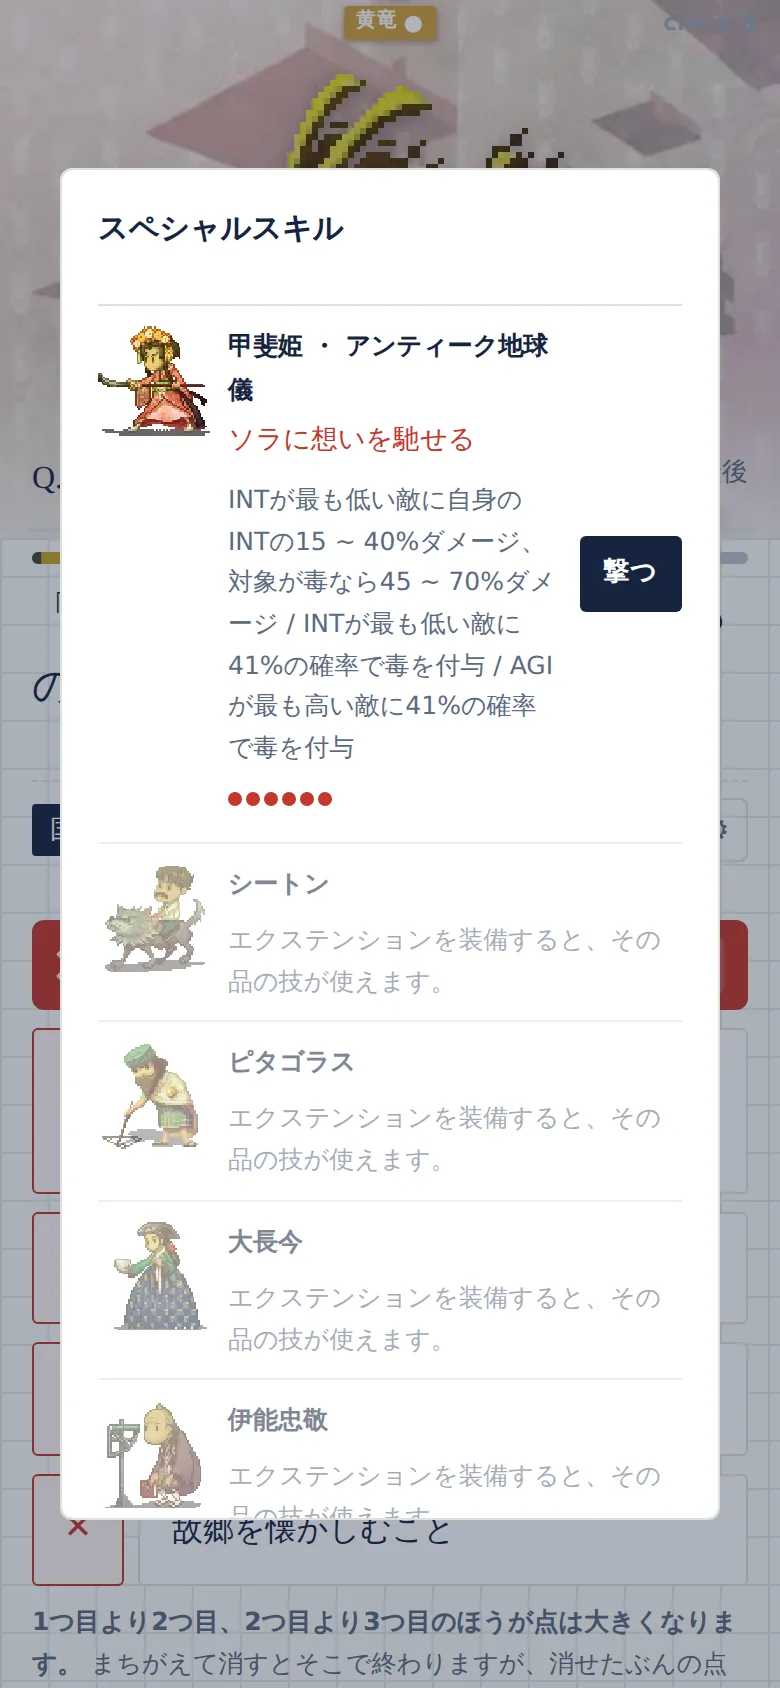
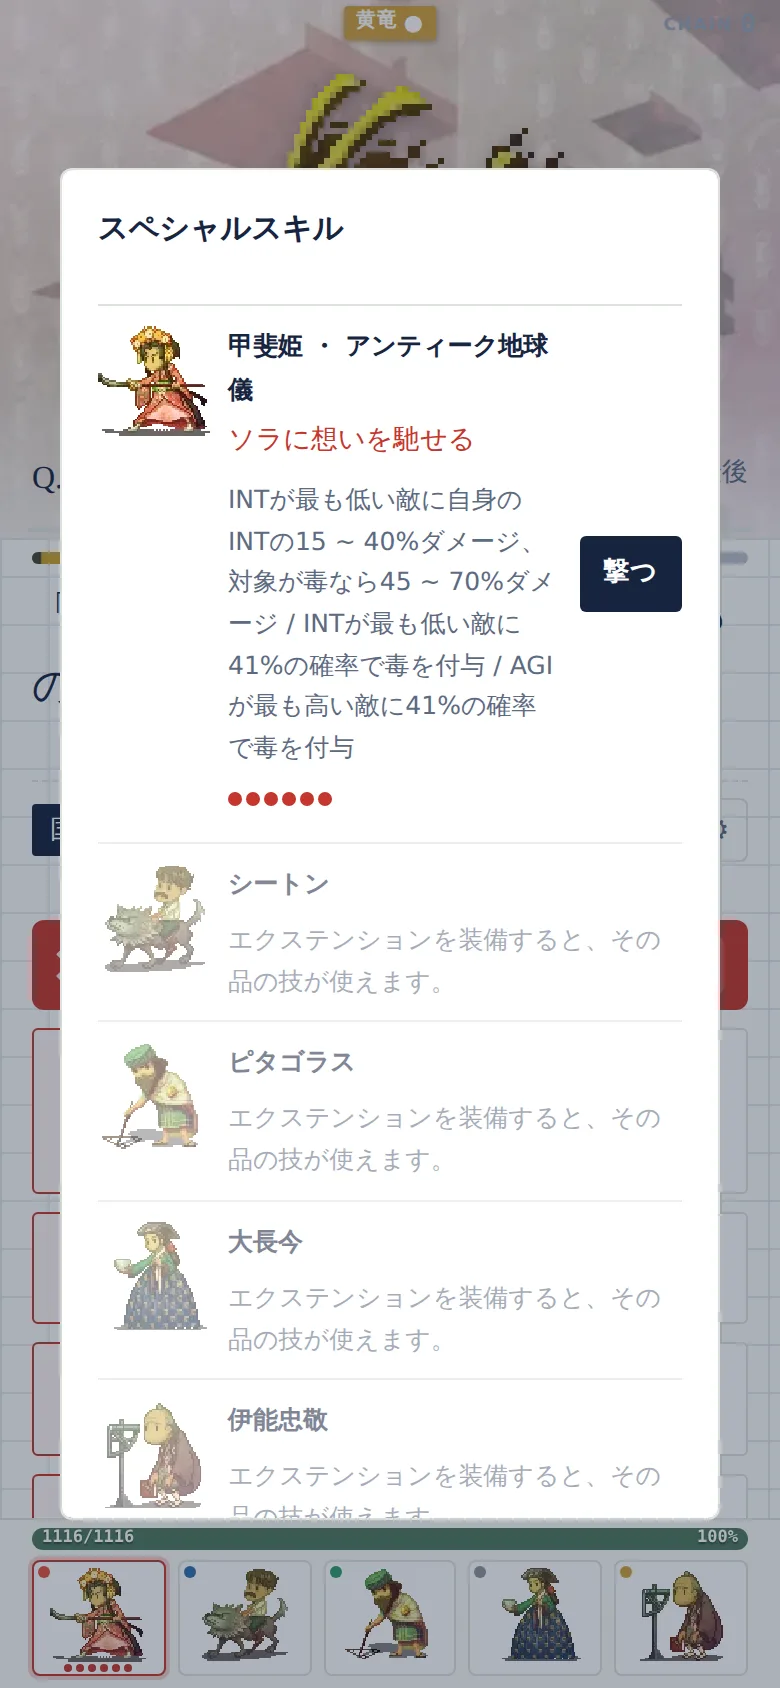
スワイプにもバトルの帯を出し、デッキ行を画面の下に貼り付ける
実機で見つかった2つ。どちらも docs/screens/ の絵では気づけなかった。

## スワイプにバトルの帯が無かった

スワイプだけ独自の画面（ヘッダ＋カード）のままで、8問のあいだ敵もチェインも
デッキも画面から消えていた。出題の画面と同じ帯立てにそろえ、
battleBandHTML() を両方から呼ぶようにした。

写真に高さが要るので、スワイプのバトルの帯だけ 25dvh・敵 128px に詰めてある
（出題の画面は 32dvh・192px）。カードは 30dvh で頭打ち。
390×844 にちょうど収まる（844px）。

## 消去法でヒーローが見えなかった

デッキ行は文書のいちばん下に置いてあったので、解答の長い方式ではそのまま
画面の外だった（消去法は 965px）。position:sticky で画面の下に貼り付けた。
パーティは戦いのUIなので、答えているあいだは必ず見えているようにする。

## ついでに

BOSS の札が属性の札の裏に隠れていた（どちらも絵の上の中央）。右上へ移した。

## 検査

touch-check に3項目（スワイプにもバトルの帯が出る／消去法とスワイプの両方で
デッキ行が画面の中にあり顔が5つ並ぶ）。検査の下ごしらえでも startBattle() を
呼ぶようにして、デッキ行まで含めて見るようにした。

validate / smoke / touch-check(45) / shots(37) すべて通過。

Claude-Session: https://claude.ai/code/session_01HQarYNyuWkC6NYJVcfcKzq

Changed region(s): [[0.0308, 0.8934, 0.9538, 1.0]]

diff --git a/src/views.js b/src/views.js
@@ -1333,6 +1333,30 @@ function deckRow() {
   </div>`;
 }
 
+/**
+ * **バトルの帯**（画面のいちばん上・全体の32%）。
+ *
+ * 背景・敵・チェイン・Q.◯／あと◯問・3つの束の帯が入ります。
+ * **出題の画面とスワイプで同じものを使います** —— スワイプだけ帯が無いと、
+ * 8問のあいだ戦いが画面から消えます（実際に消えていました）。
+ */
+function battleBandHTML(q) {
+  const w = waveAt(S.run.i);
+  const bg = DB.subjectArt[q.subject]?.bg || DB.defaultBg;
+  return `
+    <div class="qz-battle" style="background-image:url('${assetPath.bg(bg)}')">
+      <i class="qz-shade"></i>
+      ${battleStage()}
+      <div class="bt-count">
+        <span class="bt-q">Q.${w.at + 1}</span>
+        <span class="bt-left">${w.size - w.at - 1 > 0 ? `あと${w.size - w.at - 1}問` : "この束の最後"}</span>
+      </div>
+      <!-- **3つの束と進み具合。** Q.1／あと3問 は「いまの束の中」の話なので、
+           セッション全体のどこにいるかは、この帯でしか分かりません -->
+      <div class="bt-plan">${planStrip()}</div>
+    </div>`;
+}
+
 /* ---------- スペシャルスキル（装備したエクステンションの Active Skill） ---------- */
 
 /**
@@ -1567,7 +1591,6 @@ function vQuiz() {
   const mode = modeOf(q);
   // スワイプは画面ごと別。束で出るので、ふつうのセッションの途中にも現れる
   if (mode === "swipe") return vSwipe();
-  const place = q.country ? `<b>${esc(q.country)}</b>` : `日本 <b>${esc(q.gradeLabel)}</b>`;
   /**
    * **初回起動は、問題と解答だけにします**（決定1）。
    *
@@ -1597,8 +1620,6 @@ function vQuiz() {
    *
    * 初回起動（決定1）はこの帯立てに乗せません——問題と解答だけにするためです。
    */
-  const w = waveAt(S.run.i);
-  const bg = DB.subjectArt[q.subject]?.bg || DB.defaultBg;
   const tall = mode === "panel" || mode === "numeric";
 
   /* 設問の帯。**補足（教科・単元・段・ヒント・⚙）は問題文の下**に置きます */
@@ -1682,17 +1703,7 @@ function vQuiz() {
   <div class="pad intro">${askHTML}${ansHTML}</div>
   ${modals}` : `
   <div class="qz${tall ? " tall" : ""}">
-    <div class="qz-battle" style="background-image:url('${assetPath.bg(bg)}')">
-      <i class="qz-shade"></i>
-      ${battleStage()}
-      <div class="bt-count">
-        <span class="bt-q">Q.${w.at + 1}</span>
-        <span class="bt-left">${w.size - w.at - 1 > 0 ? `あと${w.size - w.at - 1}問` : "この束の最後"}</span>
-      </div>
-      <!-- **3つの束と進み具合。** Q.1／あと3問 は「いまの束の中」の話なので、
-           セッション全体のどこにいるかは、この帯でしか分かりません -->
-      <div class="bt-plan">${planStrip()}</div>
-    </div>
+    ${battleBandHTML(q)}
     ${timeBarHTML(mode)}
     <div class="qz-ask">${askHTML}</div>
     <div class="qz-ans">${ansHTML}</div>
@@ -2692,33 +2703,38 @@ function vSwipe() {
   if (S.run.i >= S.run.ids.length) return go("result");
   const q = currentQ();
   const p = DB.photos?.[q.image];
-  const place = q.country ? `<b>${esc(q.country)}</b>` : `日本 <b>${esc(q.gradeLabel)}</b>`;
 
+  /* **スワイプも出題の画面と同じ帯立てです。** ここだけ帯が無いと、
+     8問のあいだ戦いが画面から消えます（実際に消えていました）。
+     **写真に高さが要るので、バトルの帯だけ少し詰めます**（`.qz.swipe`） */
   app.innerHTML = `
-  <header><div class="hbar">
-    <div class="place">${place} ・ ${esc(q.subject)}</div>
-    <div class="score">${S.run.i + 1} / ${S.run.ids.length}</div></div>
-    ${planStrip()}${timeBarHTML("swipe")}</header>
-  <div class="pad swp">
-    <div class="qmeta"><span class="grade ${q.newCurriculum ? "alt" : ""}">${esc(q.gradeLabel)}</span>
-      <span class="unit">${esc(q.unit)}</span>${levelChip(q, "swipe")}</div>
-    <div class="swp-q">${esc(q.prompt)}</div>
-    <div class="swp-picks">
-      <button class="swp-pick l" data-s="0"><i aria-hidden="true">←</i>
-        <span>${esc(q.choices[0])}</span></button>
-      <button class="swp-pick r" data-s="1"><span>${esc(q.choices[1])}</span>
-        <i aria-hidden="true">→</i></button>
+  <div class="qz swipe">
+    ${battleBandHTML(q)}
+    ${timeBarHTML("swipe")}
+    <div class="qz-ask">
+      <div class="swp-q">${esc(q.prompt)}</div>
+      <div class="qmeta"><span class="grade ${q.newCurriculum ? "alt" : ""}">${esc(q.gradeLabel)}</span>
+        <span class="unit">${esc(q.unit)}</span>${levelChip(q, "swipe")}</div>
     </div>
-    <div class="swp-stage">
-      <div class="swp-card" id="swpcard" tabindex="0"
-        role="group" aria-label="${esc(q.prompt)}">
-        ${p && p.file ? `<img src="${assetPath.photo(p.file)}" alt="${esc(q.alt || "")}"
-          ${p.width ? `width="${p.width}" height="${p.height}"` : ""} draggable="false">` : ""}
-        <div class="swp-seal" id="swpseal" aria-live="polite"></div>
+    <div class="qz-ans swp">
+      <div class="swp-picks">
+        <button class="swp-pick l" data-s="0"><i aria-hidden="true">←</i>
+          <span>${esc(q.choices[0])}</span></button>
+        <button class="swp-pick r" data-s="1"><span>${esc(q.choices[1])}</span>
+          <i aria-hidden="true">→</i></button>
       </div>
+      <div class="swp-stage">
+        <div class="swp-card" id="swpcard" tabindex="0"
+          role="group" aria-label="${esc(q.prompt)}">
+          ${p && p.file ? `<img src="${assetPath.photo(p.file)}" alt="${esc(q.alt || "")}"
+            ${p.width ? `width="${p.width}" height="${p.height}"` : ""} draggable="false">` : ""}
+          <div class="swp-seal" id="swpseal" aria-live="polite"></div>
+        </div>
+      </div>
+      <p class="swp-cred" id="swpcred">${p ? creditLine(p, !titleFree(p)) : ""}</p>
+      <p class="fine swp-how">カードを、正しいと思うほうへはらう。左右のボタンや矢印キーでも答えられます。</p>
     </div>
-    <p class="swp-cred" id="swpcred">${p ? creditLine(p, !titleFree(p)) : ""}</p>
-    <p class="fine swp-how">カードを、正しいと思うほうへはらう。左右のボタンや矢印キーでも答えられます。</p>
+    ${deckRow()}
   </div>`;
 
   wireSwipe(q);

diff --git a/docs/screens/index.html b/docs/screens/index.html
@@ -27,7 +27,7 @@ figcaption{padding:10px 13px 13px}
 @media (max-width:480px){main{padding:14px;gap:14px}}
 </style></head><body>
 <header><h1>画面の一覧 ・ 37 / 37 枚</h1>
-<p>2026-09-23 07:36 に <code>npm run shots</code> で撮ったもの。幅 390px（iPhone相当）の実機ブラウザーです。
+<p>2026-09-23 07:52 に <code>npm run shots</code> で撮ったもの。幅 390px（iPhone相当）の実機ブラウザーです。
 絵を押すと原寸で開きます。<b>「S-06 の帯が…」のようにIDで指してください。</b>
 出題の画面には、撮ったときの設問IDも出しています。
 実機で見ているときは、URLの末尾に <code>#review</code> を付けると画面の隅に同じ番号が出ます。</p></header>
@@ -78,7 +78,7 @@ figcaption{padding:10px 13px 13px}
     <p class="nm">出題・消去法</p>
     <p class="nt">朱の帯。誤っているものを3つ消す</p>
     <p class="qid">設問 <b>gaikokugo-001</b></p>
-    <p class="sz">780×1930 ・ 84KB</p>
+    <p class="sz">780×1930 ・ 70KB</p>
   </figcaption></figure>
 <figure class="">
   <div class="shot"><a href="S-07.webp" target="_blank" rel="noopener"><img src="S-07.webp" alt="出題・文字パネル" loading="lazy"></a></div>
@@ -86,7 +86,7 @@ figcaption{padding:10px 13px 13px}
     <p class="nm">出題・文字パネル</p>
     <p class="nt">3×3／4×4 をなぞって読みを作る</p>
     <p class="qid">設問 <b>gaikokugo-003</b></p>
-    <p class="sz">780×1916 ・ 68KB</p>
+    <p class="sz">780×1916 ・ 64KB</p>
   </figcaption></figure>
 <figure class="">
   <div class="shot"><a href="S-08.webp" target="_blank" rel="noopener"><img src="S-08.webp" alt="出題・数値入力" loading="lazy"></a></div>
@@ -94,7 +94,7 @@ figcaption{padding:10px 13px 13px}
     <p class="nm">出題・数値入力</p>
     <p class="nt">テンキー。単位は固定表示</p>
     <p class="qid">設問 <b>joho-002</b></p>
-    <p class="sz">780×1688 ・ 58KB</p>
+    <p class="sz">780×1688 ・ 57KB</p>
   </figcaption></figure>
 <figure class="">
   <div class="shot"><a href="S-09.webp" target="_blank" rel="noopener"><img src="S-09.webp" alt="出題・レンジ" loading="lazy"></a></div>
@@ -110,7 +110,7 @@ figcaption{padding:10px 13px 13px}
     <p class="nm">出題・スワイプ</p>
     <p class="nt">カードを正しいと思うほうへはらう</p>
     <p class="qid">設問 <b>gaikokugo-082</b></p>
-    <p class="sz">780×1688 ・ 59KB</p>
+    <p class="sz">780×1688 ・ 74KB</p>
   </figcaption></figure>
 <figure class="">
   <div class="shot"><a href="S-11.webp" target="_blank" rel="noopener"><img src="S-11.webp" alt="解説（バトルなし）" loading="lazy"></a></div>
@@ -230,7 +230,7 @@ figcaption{padding:10px 13px 13px}
     <p class="nm">出題を選ぶ・教科を選んだあと</p>
     <p class="nt">形式3つとエネミーが出て、背景がその教科の絵に変わる</p>
     
-    <p class="sz">780×1688 ・ 68KB</p>
+    <p class="sz">780×1688 ・ 70KB</p>
   </figcaption></figure>
 <figure class="">
   <div class="shot"><a href="S-26.webp" target="_blank" rel="noopener"><img src="S-26.webp" alt="出題・答えたあと（バトル）" loading="lazy"></a></div>
@@ -238,7 +238,7 @@ figcaption{padding:10px 13px 13px}
     <p class="nm">出題・答えたあと（バトル）</p>
     <p class="nt">正解すると敵が削れる。倒れた敵は伏せる</p>
     <p class="qid">設問 <b>kokugo-002</b></p>
-    <p class="sz">780×3040 ・ 137KB</p>
+    <p class="sz">780×3040 ・ 136KB</p>
   </figcaption></figure>
 <figure class="">
   <div class="shot"><a href="S-27.webp" target="_blank" rel="noopener"><img src="S-27.webp" alt="ヒント（ポップアップ）" loading="lazy"></a></div>
@@ -246,7 +246,7 @@ figcaption{padding:10px 13px 13px}
     <p class="nm">ヒント（ポップアップ）</p>
     <p class="nt">元の画面は動かない。もう一段でだけ本数が増える</p>
     <p class="qid">設問 <b>gaikokugo-001</b></p>
-    <p class="sz">780×1930 ・ 64KB</p>
+    <p class="sz">780×1930 ・ 52KB</p>
   </figcaption></figure>
 <figure class="">
   <div class="shot"><a href="S-28.webp" target="_blank" rel="noopener"><img src="S-28.webp" alt="設定（ポップアップ）" loading="lazy"></a></div>
@@ -254,7 +254,7 @@ figcaption{padding:10px 13px 13px}
     <p class="nm">設定（ポップアップ）</p>
     <p class="nt">正解した問題の解説を見るかどうか</p>
     <p class="qid">設問 <b>gaikokugo-001</b></p>
-    <p class="sz">780×1930 ・ 66KB</p>
+    <p class="sz">780×1930 ・ 54KB</p>
   </figcaption></figure>
 <figure class="">
   <div class="shot"><a href="S-29.webp" target="_blank" rel="noopener"><img src="S-29.webp" alt="Wave開始（接敵）" loading="lazy"></a></div>
@@ -270,7 +270,7 @@ figcaption{padding:10px 13px 13px}
     <p class="nm">Wave終了（戦果）</p>
     <p class="nt">撃破！／逃げられた……と、その束ぶんの成績と報酬</p>
     
-    <p class="sz">780×1688 ・ 59KB</p>
+    <p class="sz">780×1688 ・ 60KB</p>
   </figcaption></figure>
 <figure class="">
   <div class="shot"><a href="S-31.webp" target="_blank" rel="noopener"><img src="S-31.webp" alt="何年生から始める?" loading="lazy"></a></div>
@@ -286,7 +286,7 @@ figcaption{padding:10px 13px 13px}
     <p class="nm">必殺技発動チャンス</p>
     <p class="nt">解説を省いていても、隙を見せた問題では応用編に挑める</p>
     <p class="qid">設問 <b>kokugo-002</b></p>
-    <p class="sz">780×1982 ・ 83KB</p>
+    <p class="sz">780×1982 ・ 71KB</p>
   </figcaption></figure>
 <figure class="">
   <div class="shot"><a href="S-33.webp" target="_blank" rel="noopener"><img src="S-33.webp" alt="必殺技のカットイン" loading="lazy"></a></div>
@@ -294,7 +294,7 @@ figcaption{padding:10px 13px 13px}
     <p class="nm">必殺技のカットイン</p>
     <p class="nt">応用編を抜けると出る。MCH のパッシブスキル演出を写したもの</p>
     <p class="qid">設問 <b>kokugo-002</b></p>
-    <p class="sz">780×1688 ・ 74KB</p>
+    <p class="sz">780×1688 ・ 77KB</p>
   </figcaption></figure>
 <figure class="">
   <div class="shot"><a href="S-34.webp" target="_blank" rel="noopener"><img src="S-34.webp" alt="スペシャルスキルを撃つ" loading="lazy"></a></div>

diff --git a/src/styles.css b/src/styles.css
@@ -748,6 +748,10 @@
   .swp-card.thrown{opacity:.45}
   .swp-card img{display:block;width:100%;height:auto;max-height:46vh;object-fit:contain;
     user-select:none;-webkit-user-drag:none}
+  /* **帯立ての中では、カードは残りの高さに合わせます。**
+     46vh のままだと、バトルの帯とデッキ行のぶんだけ下へはみ出します */
+  .qz.swipe .swp-card img{max-height:30dvh}
+  .qz.swipe .swp-how{margin-top:6px}
   .swp-card:focus-visible{outline:2px solid var(--ai);outline-offset:2px}
 
   /* ○✕ はカードの上に大きく出す。**マルバツは必ず出す** */
@@ -969,6 +973,12 @@
      **指でなぞれないマスができます**（実際に3問できました）。図版の大きい問題では
      設問の帯のほうをスクロールさせて、解答の位置を動かしません */
   .qz.tall .qz-ask{max-height:26dvh;overflow-y:auto;justify-content:flex-start}
+  /* **スワイプは写真が主役です。** バトルの帯を少し詰めて、カードに高さを回します */
+  .qz.swipe .qz-battle{flex-basis:25dvh;min-height:170px}
+  .qz.swipe .bt-ch{width:128px;height:128px}
+  .qz-ans.swp{padding-top:0}
+  .qz.swipe .swp-q{margin:0 0 8px}
+  .qz.swipe .qmeta{margin:0}
   .qz-shade{position:absolute;inset:0;background:linear-gradient(
     rgba(255,255,255,.34),rgba(255,255,255,.34) 62%,rgba(251,251,247,.84))}
   .qz-battle > *:not(.qz-shade){position:relative;z-index:1}
@@ -1231,9 +1241,11 @@
      （実際に頭が切れました）。行として積むと、そのぶん高さを食います */
   .bt-stage .bt-side.foe .fac{position:absolute;left:50%;top:-13px;transform:translateX(-50%);
     z-index:1;box-shadow:0 1px 3px rgba(0,0,0,.3)}
-  .bt-boss{position:absolute;left:50%;top:-4px;transform:translateX(-50%);
+  /* **属性の札と重ねないでください。** どちらも絵の上の中央に置いたら、
+     BOSS が青龍の札の裏に隠れました（実機で見つかりました） */
+  .bt-boss{position:absolute;right:6px;top:-13px;
     font:700 9px/1 var(--gothic);letter-spacing:.14em;color:#fff;background:var(--pen);
-    padding:2px 5px;border-radius:2px}
+    padding:3px 5px;border-radius:2px;z-index:2}
   .bt-dmg{position:absolute;left:50%;top:10px;transform:translateX(-50%);
     font:700 22px/1 var(--mincho);color:var(--pen);text-shadow:0 1px 0 #fff,0 0 6px #fff;
     animation:dmgPop .5s ease-out}
@@ -1244,8 +1256,14 @@
   .bt-stage .bt-side.foe{flex:1;max-width:220px;margin:0 auto}
 
   /* デッキ5枚とパーティHP。**画面のいちばん下**。左が先で、右ほどASが落ちる */
-  .bt-deck{flex:0 0 auto;max-width:560px;width:100%;margin:0 auto;padding:4px 16px 6px;
-    border-top:1px solid var(--line);background:var(--paper)}
+  /* **デッキ行は画面の下に貼り付けます**（`position:sticky`）。
+     消去法のように解答が長い方式では、**ヒーローが画面の外に出て見えません**
+     でした（実機で指摘されました）。パーティは戦いのUIなので、答えている
+     あいだは必ず見えているようにします */
+  .bt-deck{position:sticky;bottom:0;z-index:5;
+    flex:0 0 auto;max-width:560px;width:100%;margin:0 auto;padding:4px 16px 6px;
+    border-top:1px solid var(--line);background:rgba(251,251,247,.96);
+    backdrop-filter:blur(4px)}
   .bt-deck.down{opacity:.6}
   /* **パーティの数字もバーの中へ。** 行を1つ減らすと、そのぶん解答が広がります */
   .bt-party{position:relative;margin-bottom:5px}

diff --git a/docs/redesign-screens.md b/docs/redesign-screens.md
@@ -75,6 +75,12 @@ S体系（詰める）から変わる点なので、`scripts/screens.mjs` 側に
 | **解答** | 40% | **38%** |
 | **パーティHPとデッキ5枚** | 5%（戻る／▶▶▶） | **10%** |
 
+**デッキ行は画面の下に貼り付けます**（`position:sticky`）。消去法のように解答が
+長い方式では、下に置いただけだと**ヒーローが画面の外に出て見えません**でした
+（実機で指摘されました）。パーティは戦いのUIなので、答えているあいだは必ず
+見えているようにします。`npm run touch-check` が、消去法とスワイプの両方で
+**デッキ行が画面の中にあるか**を見ています。
+
 **バトルが参考作より 5pt 小さいのは、デッキ行があるからです。**
 参考作は出題中に精霊を出しません（攻撃の演出のときだけ出ます）。
 ここは**5枚の並び順がそのままルール**なので、答えているあいだも見えている
@@ -543,7 +549,7 @@ W-05 で1度だけ呼び、その結果（`S.select.run`）をそのまま渡し
 |---|---|---|---|
 | **W-24 数値入力** | 19秒 | デッキ行を7%に畳む（テンキーの高さ） | 単位は固定表示・**外しても問題は終わらない**・「このまま挑み直す」に専用ボタンを置かない |
 | **W-25 レンジ** | 19秒 | — | **答える前に点数の見込みを出さない**（許容幅から年が逆算できる） |
-| **W-26 スワイプ** | **8秒** | 持ち時間バーがいちばん速く減る。**束8問が参考作のテンポそのもの** | 途中に解説もヒントも挟まない・○✕だけ出して0.9秒で次へ・解説はセッション終わりの「ふりかえり」・**踏み切る前（56px未満）で放せば戻る** |
+| **W-26 スワイプ** | **8秒** | 持ち時間バーがいちばん速く減る。**束8問が参考作のテンポそのもの**。**バトルの帯は出題の画面と同じもの**（ここだけ無いと、8問のあいだ戦いが画面から消えます）。写真に高さが要るので帯だけ 25dvh に詰め、敵は 128px | 途中に解説もヒントも挟まない・○✕だけ出して0.9秒で次へ・解説はセッション終わりの「ふりかえり」・**踏み切る前（56px未満）で放せば戻る** |
 
 **スワイプの8秒は、この game でいちばん参考作に近い手ざわりになります。**
 1問1秒台で抜けると EXCELLENT が続き、チェインが伸び、5体ぶんのASが毎問乗ります。
